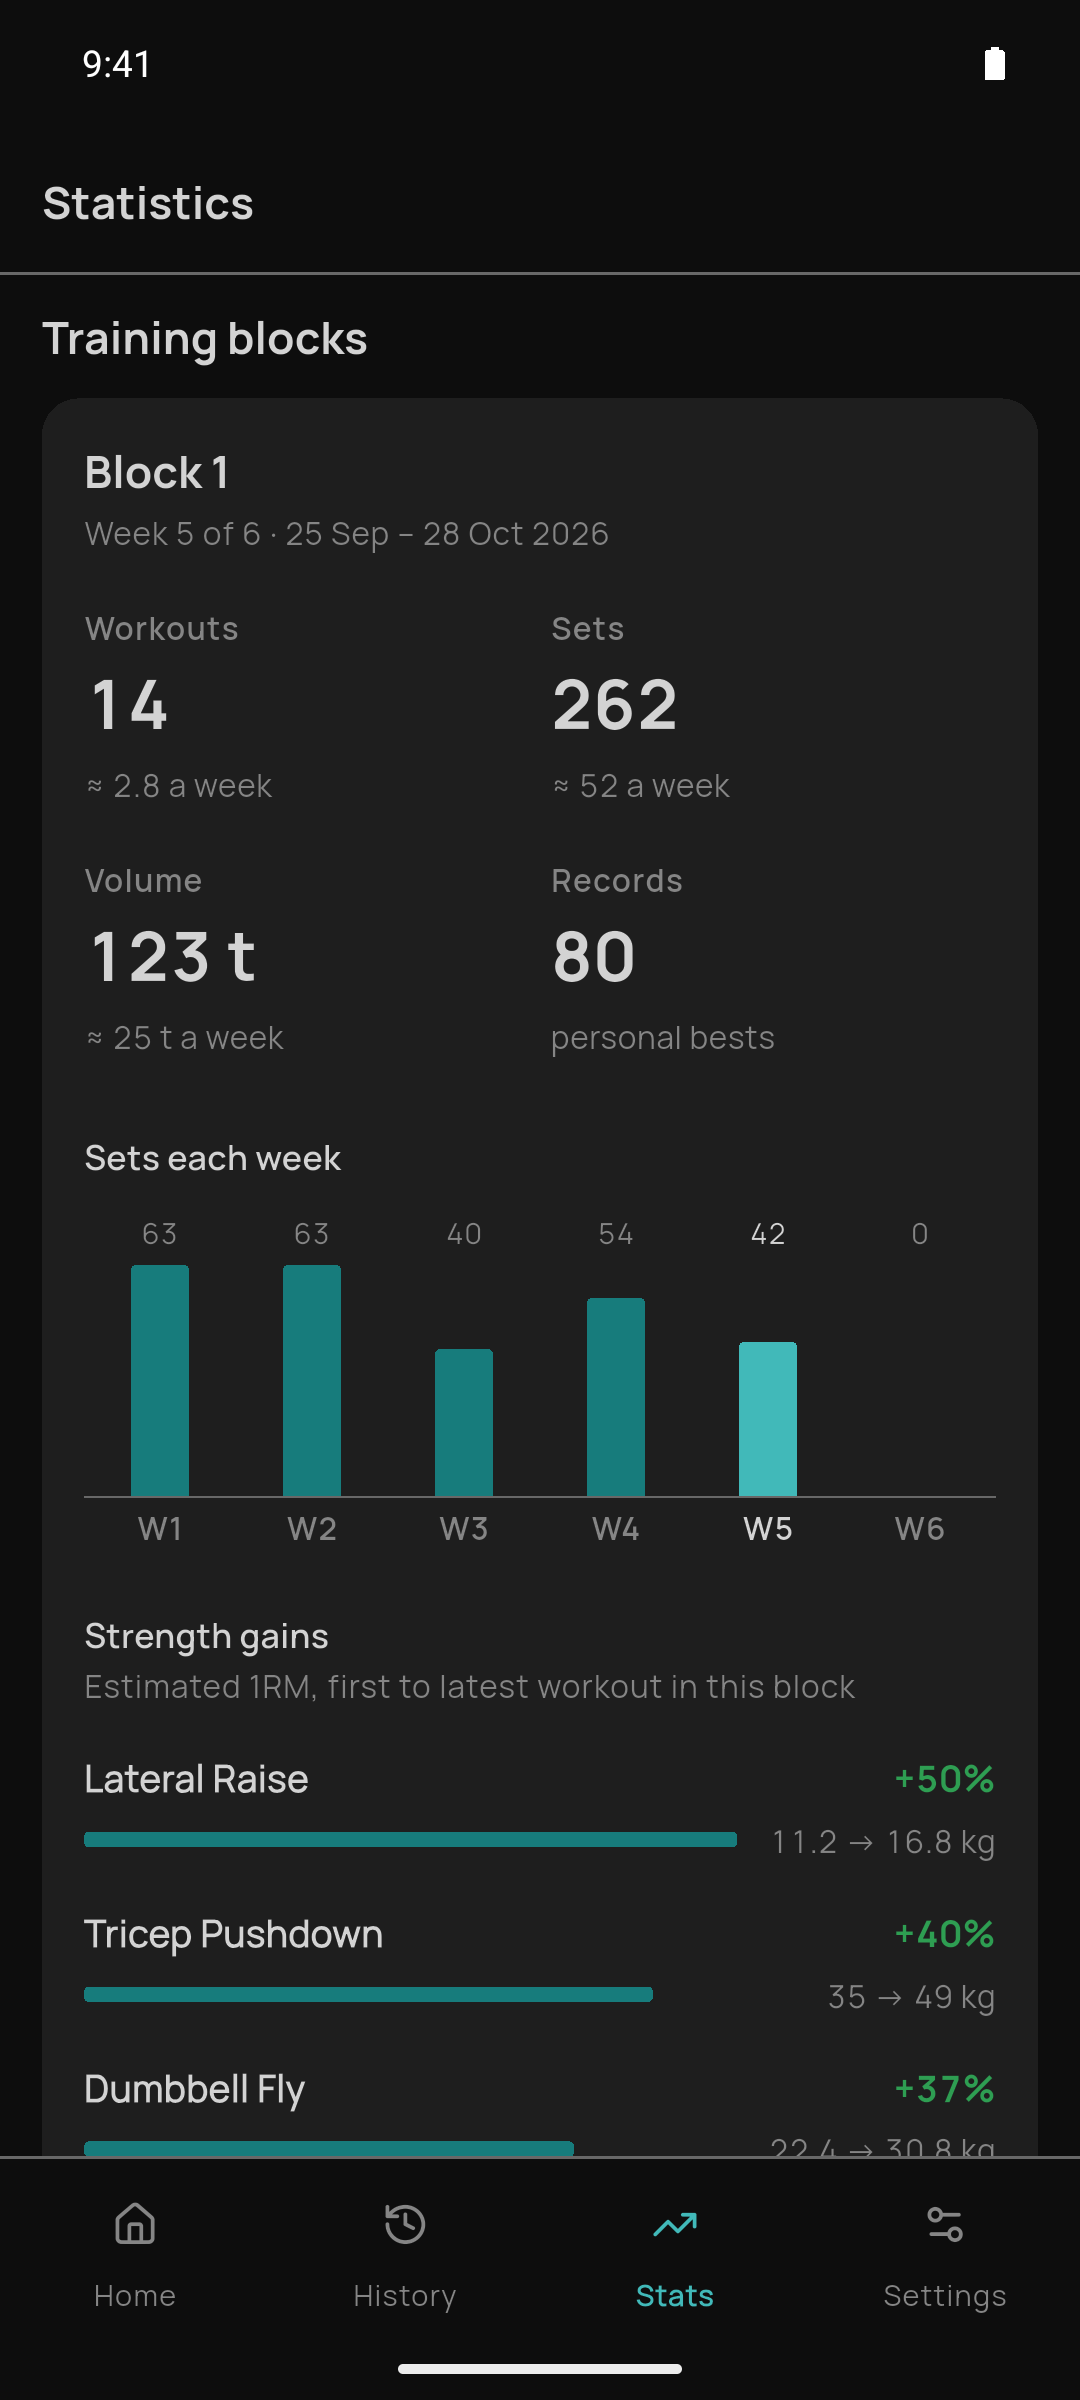
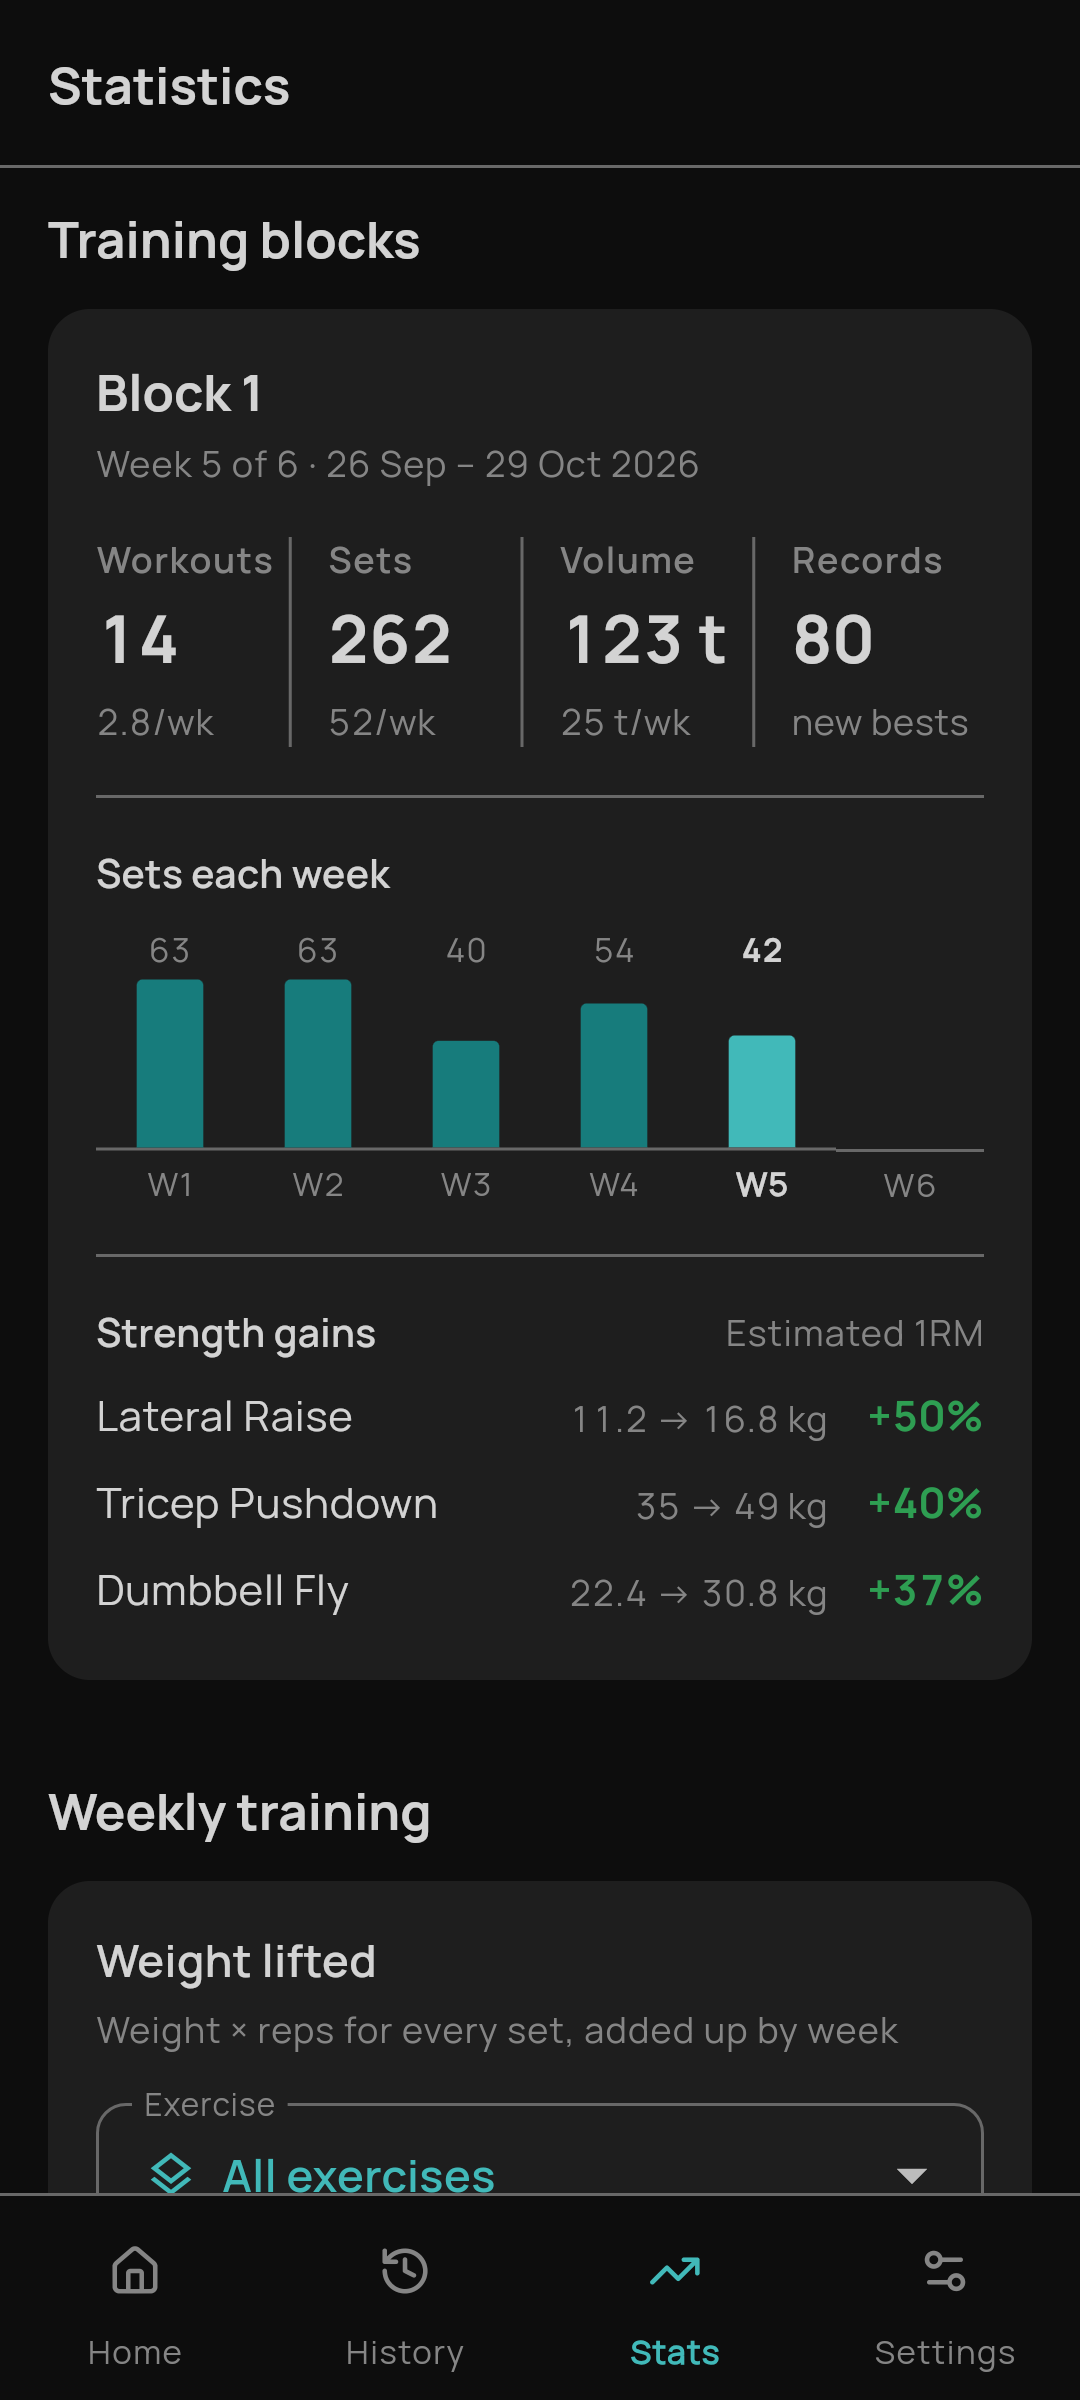
docs: refresh README screenshots

diff --git a/README.md b/README.md
@@ -41,6 +41,9 @@ workspaces, and workout progress.
 
 ## Screenshots
 
+These refreshed screenshots show the current app with example workout data. They
+were captured from the web build, without mobile status or navigation bars.
+
 <table>
   <tr>
     <td align="center">
